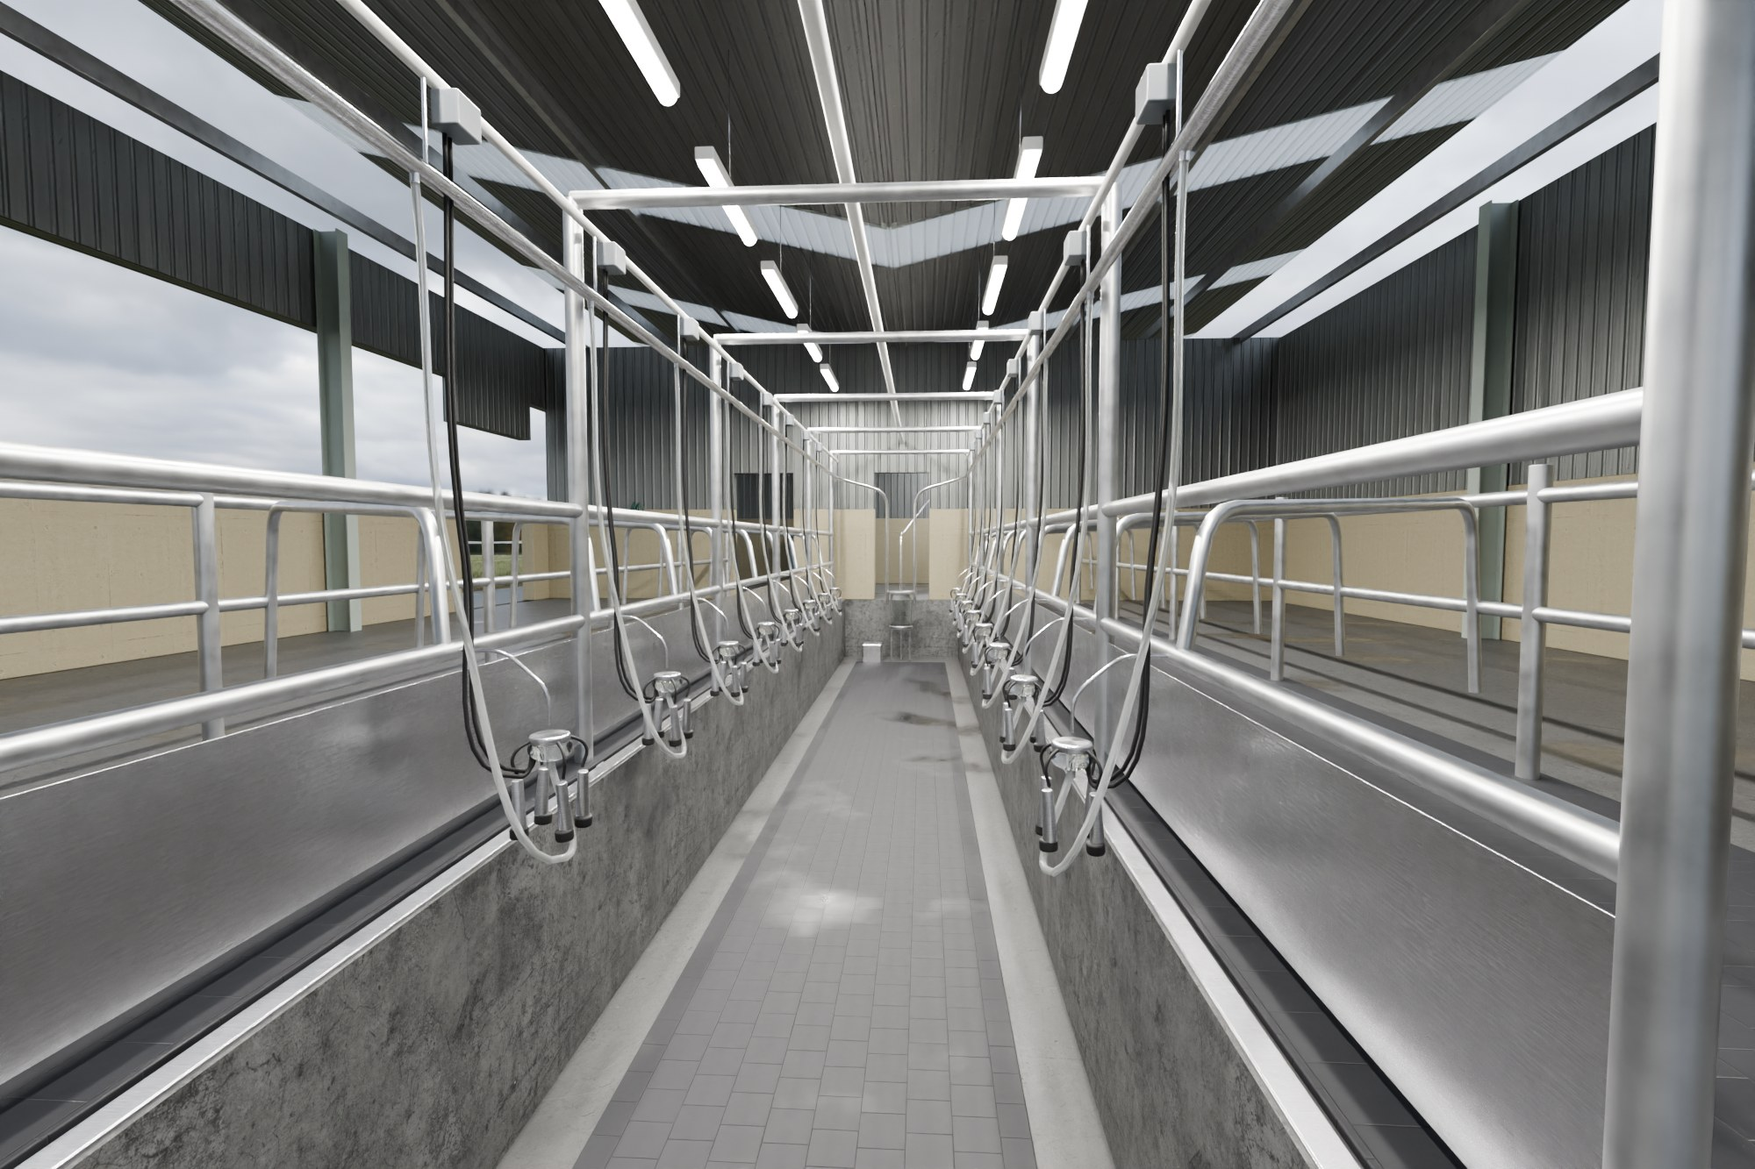
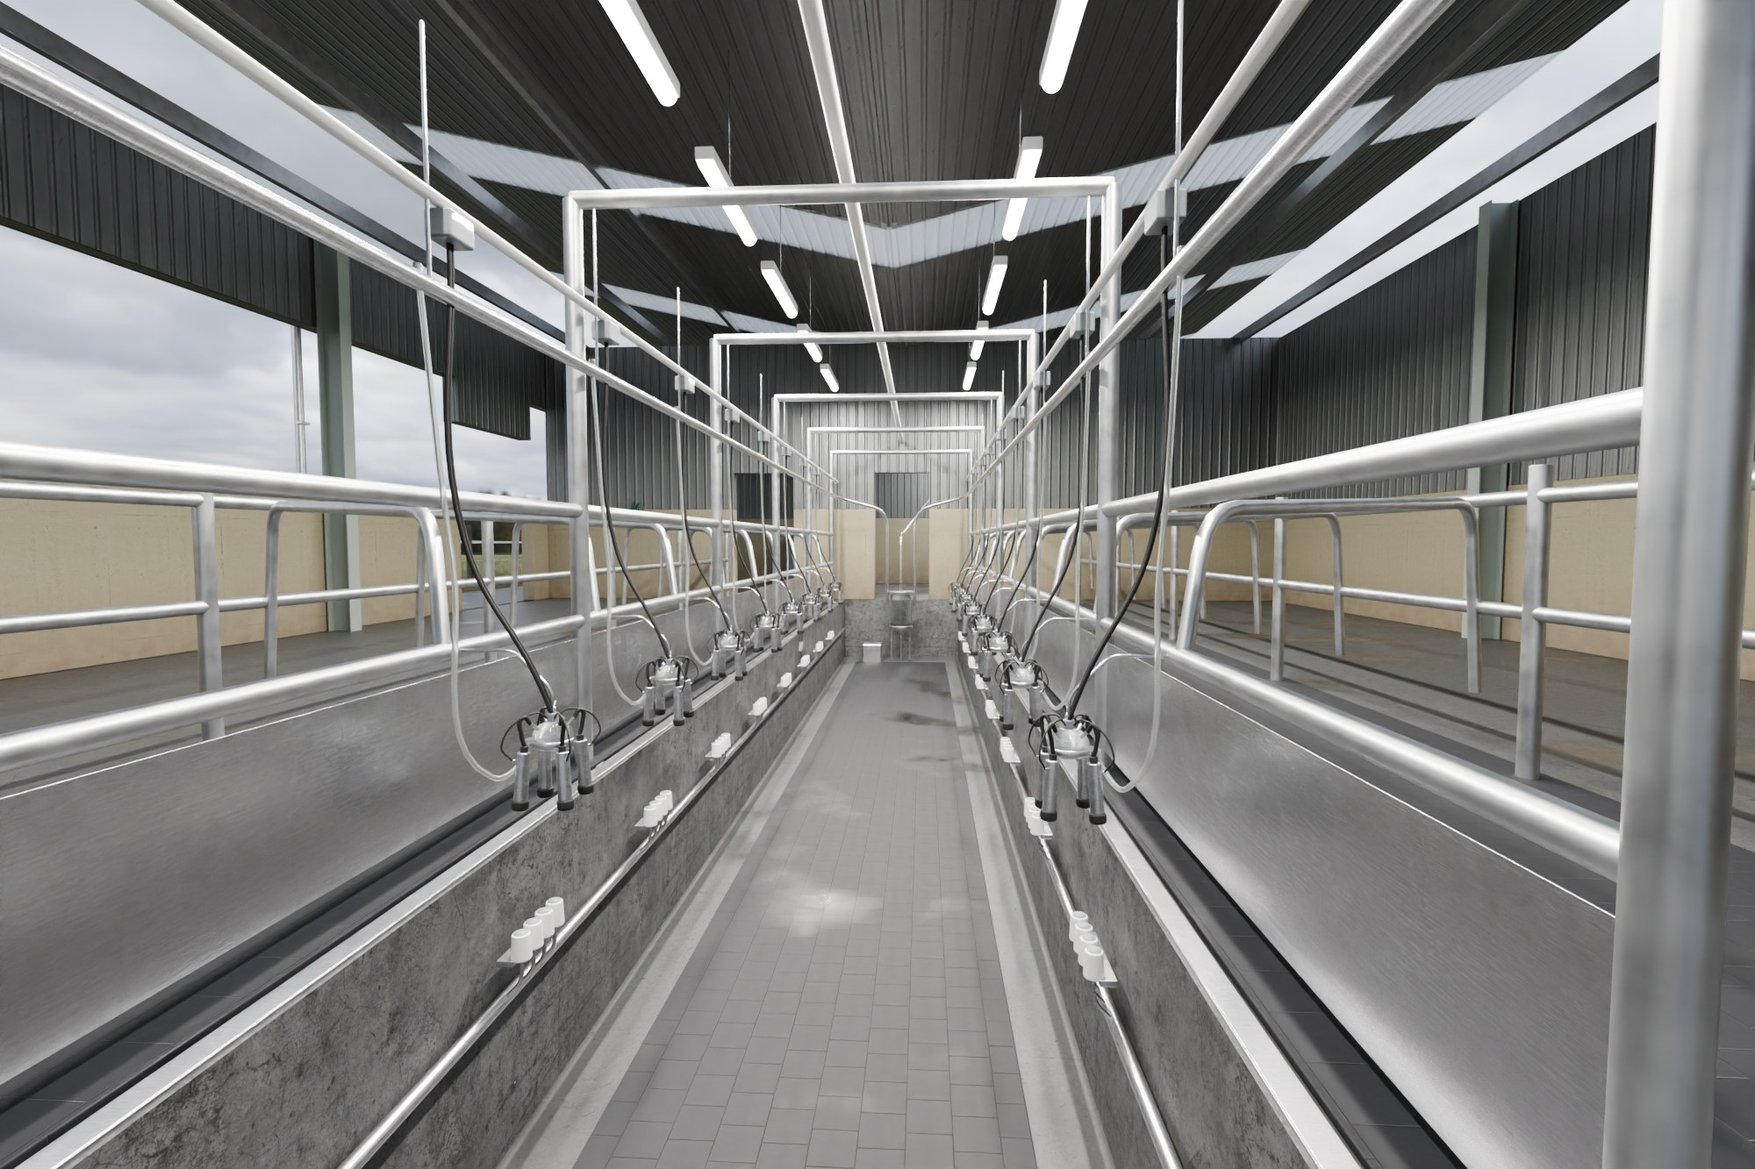
props/dairy: rebuild milking cluster to real structure (hook resting pose), jetters, wall grime + gutters/downpipes, 10 m fence with braced strainers, sanitary trap + vacuum plant, milk line 1.65 m

diff --git a/blender/props/dairy_parlour/build.py b/blender/props/dairy_parlour/build.py
@@ -73,7 +73,7 @@ def coords(nt, scale):
     return mp.outputs[0]
 
 
-def pbr(name, aid, tile, tint=None, rough_mul=1.0, wet=0.0, nstr=1.0, metal=0.0, desat=False):
+def pbr(name, aid, tile, tint=None, rough_mul=1.0, wet=0.0, nstr=1.0, metal=0.0, desat=False, grime=False):
     """box 投影 PBR；wet>0 时用噪声做积水（压暗 + 降粗糙度）。"""
     m, nt, b = new_mat(name)
     c = coords(nt, 1.0 / tile)
@@ -123,6 +123,25 @@ def pbr(name, aid, tile, tint=None, rough_mul=1.0, wet=0.0, nstr=1.0, metal=0.0,
         nt.links.new(ramp.outputs[0], nf.inputs['Factor'])
         nf.inputs[2].default_value = nstr; nf.inputs[3].default_value = 0.1
         nt.links.new(nf.outputs[0], nm.inputs['Strength'])
+    if grime:
+        # 墙根泥溅：世界 z 0–0.6 m 渐变 × 噪声，压暗偏棕、变粗糙
+        gp = nt.nodes.new('ShaderNodeNewGeometry'); sz = nt.nodes.new('ShaderNodeSeparateXYZ')
+        nt.links.new(gp.outputs['Position'], sz.inputs[0])
+        mr = nt.nodes.new('ShaderNodeMapRange'); mr.inputs['From Min'].default_value = 0.05; mr.inputs['From Max'].default_value = 0.65
+        mr.inputs['To Min'].default_value = 1.0; mr.inputs['To Max'].default_value = 0.0
+        nt.links.new(sz.outputs[2], mr.inputs['Value'])
+        gn = nt.nodes.new('ShaderNodeTexNoise'); gn.inputs['Scale'].default_value = 7; gn.inputs['Detail'].default_value = 12
+        nt.links.new(gp.outputs['Position'], gn.inputs['Vector'])
+        gm_ = nt.nodes.new('ShaderNodeMath'); gm_.operation = 'MULTIPLY'
+        nt.links.new(mr.outputs[0], gm_.inputs[0])
+        g2 = nt.nodes.new('ShaderNodeMath'); g2.operation = 'MULTIPLY_ADD'; g2.inputs[1].default_value = 1.6; g2.inputs[2].default_value = -0.2
+        nt.links.new(gn.outputs[0], g2.inputs[0]); nt.links.new(g2.outputs[0], gm_.inputs[1])
+        cl = nt.nodes.new('ShaderNodeMath'); cl.operation = 'MINIMUM'; cl.inputs[1].default_value = 1.0
+        nt.links.new(gm_.outputs[0], cl.inputs[0])
+        gmix = nt.nodes.new('ShaderNodeMix'); gmix.data_type = 'RGBA'
+        nt.links.new(cl.outputs[0], gmix.inputs['Factor']); nt.links.new(col, gmix.inputs[6])
+        gmix.inputs[7].default_value = (0.16, 0.12, 0.08, 1)
+        col = gmix.outputs[2]
     nt.links.new(col, b.inputs['Base Color'])
     nt.links.new(rough, b.inputs['Roughness'])
     b.inputs['Metallic'].default_value = metal
@@ -241,13 +260,13 @@ M = {}
 M['floor'] = pbr('floor_wet', 'concrete_floor_worn_001', 2.5, rough_mul=0.9, wet=0.55, tint=(0.5, 0.5, 0.5), desat=True)
 M['yard'] = pbr('yard', 'concrete_floor_worn_001', 3.0, wet=0.3)
 M['mat'] = pbr('rubber_mat', 'rubber_tiles', 0.6, wet=0.4, rough_mul=0.9)
-M['block'] = pbr('block', 'concrete_wall_008', 2.0, tint=(0.95, 0.95, 0.93))
+M['block'] = pbr('block', 'concrete_wall_008', 2.0, tint=(0.95, 0.95, 0.93), grime=True)
 M['pitwall'] = pbr('pitwall', 'smooth_concrete_floor', 1.5, tint=(0.62, 0.63, 0.62), wet=0.3, desat=True)
 M['clad'] = pbr('cladding', 'box_profile_metal_sheet', 1.5, tint=(0.62, 0.66, 0.64), metal=0.5, desat=True)
 M['wood'] = pbr('post_wood', 'rough_wood', 0.8, tint=(0.8, 0.72, 0.62))
 M['grass_ground'] = pbr('grass_ground', 'grass_ground', 2.0)
 M['steel'] = steel('steel_brushed')
-M['steel_polish'] = steel('steel_polished', base_rough=0.26, tile=0.3)
+M['steel_polish'] = steel('steel_polished', base_rough=0.24, tile=0.1)
 M['tank'] = steel('tank_brushed', base_rough=0.24, tile=1.0)
 M['galv'] = galvanised()
 M['rubber'] = rubber('rubber_black')
@@ -471,37 +490,91 @@ for x in [PX0 - 0.2] + [PX0 + 2.2 * k for k in range(1, 5)] + [PX1 + 0.2]:
     pipe(f'gantry_{x:.1f}', [(x, -(PY1 + 0.14), 2.35), (x, PY1 + 0.14, 2.35)], 0.035, M['galv'])
 
 # ---------------------------------------------------------------- 奶管 / 脉动管 / 杯组
+def cyl_between(name, p0, p1, r, mat, r2=None, bev=0.002, seg=24):
+    p0, p1 = Vector(p0), Vector(p1)
+    o = cyl(name, tuple((p0 + p1) / 2), r, (p1 - p0).length, mat, seg=seg, bev=bev, r2=r2)
+    o.rotation_mode = 'QUATERNION'
+    o.rotation_quaternion = (p1 - p0).to_track_quat('Z', 'Y')
+    return o
+
+
+PULSE_Z = MILK_LINE_Z + 0.25
+GZ = 2.35
+
+
+def cluster(tag, C, face):
+    """现代杯组，静止挂在钩上：爪在上，四个奶杯靠短奶管垂在下面，杯口（衬垫唇口）朝下。
+    C = 爪中心；face = 朝坑外（牛那侧）的单位向量（x, y）。返回 (出奶口, 脉动分配器顶) 位置。"""
+    C = Vector(C)
+    # 爪：不锈钢底座 + 透明聚砜上罩 + 顶上黑色脉动分配器 + 挂环
+    cyl(f'claw_base_{tag}', tuple(C + Vector((0, 0, -0.022))), 0.062, 0.03, M['steel_polish'], seg=48, bev=0.012)
+    sphere(f'claw_bowl_{tag}', tuple(C + Vector((0, 0, 0.0))), 0.06, M['glass'], (1, 1, 0.75))
+    cyl(f'distrib_{tag}', tuple(C + Vector((0, 0, 0.055))), 0.017, 0.03, M['grey_box'], bev=0.005)
+    ring = C + Vector((0, 0, 0.078))
+    cyl(f'claw_ring_{tag}', tuple(ring), 0.012, 0.004, M['steel'], axis='X', bev=0)
+    # 出奶口（侧面，朝钩那边）
+    fx, fy = face
+    out0 = C + Vector((fx * 0.055, fy * 0.055, -0.015))
+    out1 = C + Vector((fx * 0.085, fy * 0.085, -0.02))
+    cyl_between(f'claw_outlet_{tag}', out0, out1, 0.009, M['steel'])
+    for k in range(4):
+        a = math.pi / 4 + k * math.pi / 2
+        d = Vector((math.cos(a), math.sin(a), 0))
+        # 爪上的短进奶嘴：斜向上外
+        n0 = C + d * 0.04 + Vector((0, 0, 0.02))
+        n1 = n0 + (d * 0.7 + Vector((0, 0, 0.7))).normalized() * 0.035
+        cyl_between(f'nipple_{tag}_{k}', n0, n1, 0.0055, M['steel'])
+        # 奶杯倒挂：杯壳长 145 mm、Ø 40 mm；上端是衬垫出口（短奶管），下端是唇口
+        jitter = random.uniform(-0.01, 0.01)
+        top = C + d * (0.085 + jitter) + Vector((0, 0, -0.035 + random.uniform(-0.01, 0.01)))
+        tilt = d * 0.08 + Vector((random.uniform(-0.03, 0.03), random.uniform(-0.03, 0.03), 0))
+        axis = (Vector((0, 0, -1)) + tilt).normalized()
+        bot = top + axis * 0.145
+        cyl_between(f'shell_{tag}_{k}', top, bot, 0.02, M['steel_polish'], bev=0.004, seg=32)
+        # 唇口：软黑橡胶，比壳粗一圈；中间是乳头孔
+        lip1 = bot + axis * 0.028
+        cyl_between(f'mouth_{tag}_{k}', bot - axis * 0.004, lip1, 0.0245, M['rubber'], bev=0.009, seg=32)
+        cyl_between(f'mouthhole_{tag}_{k}', lip1 - axis * 0.002, lip1 + axis * 0.0005, 0.009, M['frame'], bev=0, seg=16)
+        # 衬垫从杯壳上端伸出变成短奶管，拐弯接到爪上的进奶嘴
+        stub = top - axis * 0.018
+        cyl_between(f'linerstub_{tag}_{k}', top + axis * 0.004, stub, 0.011, M['rubber'], bev=0.003)
+        tube(f'shortmilk_{tag}_{k}', [tuple(stub), tuple(stub - axis * 0.03 + d * 0.01), tuple(n1 + (n1 - n0).normalized() * 0.03), tuple(n1)], 0.0065, M['rubber'], res=16)
+        # 杯壳侧面脉动嘴 + 细短脉动管到分配器
+        side = top + axis * 0.02 + d * 0.021
+        cyl_between(f'pnip_{tag}_{k}', side, side + d * 0.012, 0.003, M['steel'], bev=0)
+        dist = C + Vector((0, 0, 0.055)) + d * 0.017
+        tube(f'shortpulse_{tag}_{k}', [tuple(side + d * 0.012), tuple(side + d * 0.04 + Vector((0, 0, 0.05))), tuple(dist + d * 0.03 + Vector((0, 0, 0.02))), tuple(dist)], 0.0028, M['rubber'], res=16)
+    return out1, C + Vector((0, 0, 0.07))
+
+
 for s in (1, -1):
     ym = s * (PY1 + 0.05)
     pipe(f'milkline_{s}', [(PX0 - 0.3, ym, MILK_LINE_Z), (PX1 + 0.1, ym, MILK_LINE_Z), (RECEIVER[0], s * 0.22, MILK_LINE_Z - 0.2), (RECEIVER[0], s * 0.22, -0.05)], 0.025, M['steel'], rad=0.25)
-    pipe(f'pulseline_{s}', [(PX0 - 0.3, ym, 2.22), (PX1 + 0.3, ym, 2.22)], 0.019, M['white_pvc'])
+    pipe(f'pulseline_{s}', [(PX0 - 0.3, ym, PULSE_Z), (PX1 + 0.3, ym, PULSE_Z)], 0.019, M['white_pvc'])
     for x in [PX0 + 1.1 * k for k in range(11)]:
-        cyl(f'clamp_{s}_{x:.1f}', (x, ym, 2.08), 0.006, 0.28, M['steel'])
+        cyl(f'clamp_{s}_{x:.1f}', (x, ym, (MILK_LINE_Z + GZ) / 2), 0.006, GZ - MILK_LINE_Z, M['steel'])
+    # 坑壁清洗托（jetter）供水管
+    yw = s * (PY1 - 0.05)
+    pipe(f'washline_{s}', [(PX0 - 0.2, yw, -0.42), (PX1 + 0.3, yw, -0.42)], 0.02, M['steel'])
     for i, x in enumerate(SX):
-        cx, cy, cz = x + 0.3, s * (PY1 - 0.16), 0.32     # 爪（挂在坑沿上）
-        # 挂钩
-        pipe(f'hook_{s}_{i}', [(cx, s * (PY1 + 0.14), 0.62), (cx, s * (PY1 - 0.02), 0.62), (cx, cy, 0.5), (cx, cy, cz + 0.07)], 0.006, M['steel'], rad=0.05)
-        # 集乳爪：下半不锈钢、上半透明
-        sphere(f'claw_{s}_{i}', (cx, cy, cz), 0.065, M['glass'], (1, 1, 0.62))
-        cyl(f'claw_top_{s}_{i}', (cx, cy, cz + 0.03), 0.06, 0.03, M['steel'], bev=0.01)
-        cyl(f'claw_out_{s}_{i}', (cx, cy, cz - 0.045), 0.012, 0.04, M['steel'])
-        # 四个奶杯：杯口朝下自然下垂
-        for k in range(4):
-            a = math.pi / 4 + k * math.pi / 2 + random.uniform(-0.15, 0.15)
-            ox, oy = math.cos(a) * 0.075, math.sin(a) * 0.075
-            tilt = (math.sin(a) * 0.18, -math.cos(a) * 0.18, 0)
-            px, py, top = cx + ox * 1.25, cy + oy * 1.25, cz - 0.07
-            cyl(f'shell_{s}_{i}_{k}', (px, py, top - 0.09), 0.021, 0.15, M['steel_polish'], rot=(-tilt[1] * 0.5, tilt[0] * 0.5, 0), bev=0.004, r2=0.016)
-            cyl(f'liner_{s}_{i}_{k}', (px, py, top - 0.175), 0.027, 0.035, M['rubber'], rot=(-tilt[1] * 0.5, tilt[0] * 0.5, 0), bev=0.008)
-            tube(f'shortmilk_{s}_{i}_{k}', [(px, py, top - 0.005), (px + ox * 0.15, py + oy * 0.15, cz - 0.01), (cx + ox * 0.45, cy + oy * 0.45, cz + 0.04)], 0.005, M['rubber'], res=16)
-        # 长奶管（透明）+ 双脉动管（黑）上到管线
-        tube(f'longmilk_{s}_{i}', [(cx, cy, cz - 0.04), (cx - 0.1, s * (PY1 - 0.25), 0.02), (cx - 0.15, s * (PY1 + 0.02), 0.75), (x + 0.05, s * (PY1 + 0.05), MILK_LINE_Z - 0.03)], 0.011, M['hose'])
-        for dz, off in ((0, -0.012), (0.01, 0.012)):
-            tube(f'pulse_{s}_{i}_{off}', [(cx + off, cy + s * 0.04, cz + 0.04), (cx - 0.06 + off, s * (PY1 - 0.1), 0.25 + dz), (cx - 0.1 + off, s * (PY1 + 0.03), 0.9), (x + 0.2 + off, s * (PY1 + 0.05), 2.18)], 0.0065, M['rubber'])
-        # 脉动器（黑盒）
-        box(f'pulsator_{s}_{i}', x + 0.14, x + 0.26, s * (PY1 + 0.02) - 0.04, s * (PY1 + 0.02) + 0.04, 2.1, 2.2, M['grey_box'], 0.008)
-        # 进奶口
-        cyl(f'inlet_{s}_{i}', (x + 0.05, ym, MILK_LINE_Z - 0.02), 0.012, 0.06, M['steel'])
+        cx, cy, cz = x + 0.3, s * (PY1 - 0.17), 0.36
+        # 杯组挂钩：从臀栏伸进坑、向下弯出钩，钩住爪顶挂环
+        pipe(f'hook_{s}_{i}', [(cx, s * (PY1 + 0.14), 0.62), (cx, s * (PY1 - 0.05), 0.62), (cx, cy, 0.5), (cx, cy, cz + 0.078), (cx + 0.02, cy, cz + 0.1)], 0.005, M['steel'], rad=0.03)
+        outlet, ptop = cluster(f'{s}_{i}', (cx, cy, cz), (0, s))
+        # 长奶管 Ø16（透明）：侧出口 → 下垂 → 上到奶管上半部的进奶口
+        tube(f'longmilk_{s}_{i}', [tuple(outlet), tuple(outlet + Vector((0.02, s * 0.02, -0.06))), (cx - 0.08, s * (PY1 - 0.02), 0.25), (cx - 0.15, s * (PY1 + 0.04), 0.9), (x + 0.05, ym, MILK_LINE_Z + 0.03)], 0.008, M['hose'])
+        cyl(f'inlet_{s}_{i}', (x + 0.05, ym, MILK_LINE_Z + 0.02), 0.012, 0.05, M['steel'])
+        # 双脉动长管（黑，两根并在一起）：分配器 → 脉动器
+        for off in (-0.0065, 0.0065):
+            tube(f'pulse_{s}_{i}_{off}', [tuple(ptop + Vector((off, 0, 0))), tuple(ptop + Vector((off - 0.02, s * 0.04, 0.12))), (cx - 0.1 + off, s * (PY1 + 0.03), 0.95), (x + 0.2 + off, s * (PY1 + 0.05), PULSE_Z - 0.08)], 0.0062, M['rubber'])
+        box(f'pulsator_{s}_{i}', x + 0.14, x + 0.26, s * (PY1 + 0.05) - 0.04, s * (PY1 + 0.05) + 0.04, PULSE_Z - 0.1, PULSE_Z - 0.02, M['grey_box'], 0.008)
+        # 清洗托：坑壁上一组四个开口朝上的白色清洗杯
+        box(f'jet_bracket_{s}_{i}', cx - 0.14, cx + 0.14, min(yw, yw - s * 0.05), max(yw, yw - s * 0.05), -0.3, -0.28, M['steel'], 0.003)
+        for k, dx in enumerate((-0.105, -0.035, 0.035, 0.105)):
+            jy = yw - s * 0.06
+            cyl(f'jetter_{s}_{i}_{k}', (cx + dx, jy, -0.25), 0.03, 0.08, M['white_pvc'], bev=0.006, seg=32, r2=0.026)
+            cyl(f'jetter_hole_{s}_{i}_{k}', (cx + dx, jy, -0.2095), 0.021, 0.002, M['frame'], bev=0, seg=24)
+            pipe(f'jet_feed_{s}_{i}_{k}', [(cx + dx, jy, -0.29), (cx + dx, jy, -0.36), (cx + dx, yw, -0.42)], 0.006, M['steel'], rad=0.03)
 
 # 集乳罐 + 奶泵
 rx, ry = RECEIVER
@@ -539,6 +612,30 @@ box('condenser', X1 - 0.75, X1 - 0.12, -5.2, -3.9, 0, 0.8, M['frame'], 0.02)
 cyl('condenser_fan', (X1 - 0.75, -4.55, 0.42), 0.26, 0.02, M['galv'], axis='X')
 for k in range(5):
     cyl(f'grille_{k}', (X1 - 0.765, -4.55, 0.42), 0.05 + k * 0.05, 0.004, M['steel'], axis='X', seg=48, bev=0)
+# 卫生阱（奶和真空之间的不锈钢小罐）+ 真空稳压罐 + 真空泵机组
+stx, sty = MILK_ROOM_X + 0.7, 3.2
+cyl('san_trap', (stx, sty, 1.2), 0.13, 0.36, M['steel_polish'], seg=48, bev=0.02)
+cyl('san_trap_lid', (stx, sty, 1.395), 0.14, 0.03, M['steel'], seg=48, bev=0.008)
+cyl('san_trap_valve', (stx, sty, 0.95), 0.03, 0.14, M['steel'])
+for k in range(3):
+    a = k * 2 * math.pi / 3
+    cyl(f'san_leg_{k}', (stx + math.cos(a) * 0.12, sty + math.sin(a) * 0.12, 0.5), 0.012, 1.0, M['steel'])
+pipe('san_to_vac', [(stx, sty, 1.41), (stx, sty, 2.6), (MILK_ROOM_X + 1.5, sty, 2.6)], 0.03, M['white_pvc'])
+vrx, vry = MILK_ROOM_X + 1.5, 4.6
+cyl('vac_receiver', (vrx, vry, 0.85), 0.2, 0.8, M['steel'], seg=48, bev=0.03)
+sphere('vac_receiver_top', (vrx, vry, 1.25), 0.2, M['steel'], (1, 1, 0.35))
+cyl('vac_gauge', (vrx, vry - 0.2, 1.05), 0.045, 0.02, M['white_pvc'], axis='Y', bev=0.004)
+for k in range(3):
+    a = k * 2 * math.pi / 3 + 0.5
+    cyl(f'vac_leg_{k}', (vrx + math.cos(a) * 0.17, vry + math.sin(a) * 0.17, 0.225), 0.015, 0.45, M['steel'])
+pipe('vac_drop', [(MILK_ROOM_X + 1.5, 3.8, 1.0), (vrx, 3.8, 1.35), (vrx, vry, 1.35)], 0.035, M['white_pvc'])
+box('vac_pump_base', X1 - 1.9, X1 - 0.6, 4.2, 5.1, 0, 0.12, M['frame'], 0.01)
+cyl('vac_motor', (X1 - 1.0, 4.65, 0.4), 0.17, 0.5, M['frame'], axis='X', seg=48, bev=0.02)
+for k in range(10):
+    cyl(f'vac_fin_{k}', (X1 - 1.2 + k * 0.045, 4.65, 0.4), 0.18, 0.008, M['frame'], axis='X', seg=48, bev=0)
+cyl('vac_pump', (X1 - 1.55, 4.65, 0.4), 0.2, 0.3, M['steel'], axis='X', seg=48, bev=0.02)
+box('vac_motor_foot', X1 - 1.3, X1 - 0.8, 4.5, 4.8, 0.12, 0.25, M['frame'], 0.01)
+pipe('vac_pump_line', [(X1 - 1.55, 4.65, 0.6), (X1 - 1.55, 4.65, 0.9), (vrx + 0.2, vry, 0.9)], 0.03, M['white_pvc'])
 # 奶罐间配件：配电柜、冲洗水管、筐
 import_gltf('utility_box_01', (X1 - 0.3, 2.5, 0.0), rot=(math.pi / 2, 0, math.pi / 2))
 import_gltf('garden_hose_wall_mounted_01', (MILK_ROOM_X + 0.05, 4.5, 1.4), rot=(math.pi / 2, 0, 0))
@@ -577,7 +674,15 @@ wall('wall_n', X0, X1, Y1, Y1 + WT, [(3.4, 5.4, 2.6)])
 wall('wall_w', X0 - WT, X0, Y0, Y1, [(-PY1 - PLATFORM_W, -PY1 - 0.1, 2.4), (-0.7, 0.7, 2.2), (PY1 + 0.1, PY1 + PLATFORM_W, 2.4)])
 wall('wall_e', X1, X1 + WT, Y0, Y1, [])
 wall('partition', MILK_ROOM_X - 0.1, MILK_ROOM_X + 0.1, Y0, Y1, [(-0.45, 0.45, 2.1), (1.8, 2.8, 2.1)])
-# 北墙开口加防鸟网（镀锌方格）
+# 檐沟 + 落水管
+for s_ in (1, -1):
+    gy = s_ * (Y1 + 0.5)
+    cyl(f'gutter_{s_}', ((X0 + X1) / 2, gy, EAVE - 0.08), 0.07, X1 - X0 + 0.8, M['galv'], axis='X', seg=24, bev=0.004)
+    for gx in (X0 + 0.4, (X0 + X1) / 2, X1 - 0.4):
+        wy = s_ * (Y1 + WT + 0.07)
+        pipe(f'downpipe_{s_}_{gx:.1f}', [(gx, gy, EAVE - 0.12), (gx, gy, EAVE - 0.35), (gx, wy, EAVE - 0.6), (gx, wy, 0.2), (gx, s_ * (Y1 + WT + 0.25), 0.03)], 0.045, M['galv'], rad=0.12)
+        for bz in (1.0, 2.2, 3.4):
+            box(f'dp_clip_{s_}_{gx:.1f}_{bz}', gx - 0.06, gx + 0.06, min(wy, s_ * (Y1 + WT)), max(wy, s_ * (Y1 + WT)), bz, bz + 0.03, M['galv'], 0.002)
 # 钢门架（I 型钢简化：翼缘 + 腹板）
 for x in range(int(X0), int(X1) + 1, 5):
     for s in (1, -1):
@@ -736,7 +841,7 @@ qx0, qx1, qy0, qy1 = PADDOCK
 def fence_line(a, b, skip=()):
     ax, ay = a; bx, by = b
     L = math.hypot(bx - ax, by - ay)
-    n = max(1, round(L / POST_STEP))
+    n = max(1, math.ceil(L / POST_STEP - 0.05))
     return [(ax + (bx - ax) * k / n, ay + (by - ay) * k / n) for k in range(n + 1)]
 
 
@@ -771,7 +876,23 @@ for si, (a, b) in enumerate(sides):
 for (x, y) in postset.values():
     corner = (x in (qx0, qx1)) and (y in (qy0, qy1))
     gate = abs(abs(x) - GATE[1]) < 0.01 and abs(y - qy0) < 0.01
-    r = (0.075 if corner or gate else 0.05) * random.uniform(0.85, 1.2)
+    r = (0.1 if corner or gate else 0.06) * random.uniform(0.9, 1.15)
+    if corner or gate:
+        # 撑桩：沿每条相邻边斜撑一根木撑（上端 1.0 m 顶桩，下端 2.2 m 外入地）
+        for (dx, dy) in ((1, 0), (-1, 0), (0, 1), (0, -1)):
+            tx_, ty_ = x + dx * 2.2, y + dy * 2.2
+            if not (qx0 - 0.01 <= tx_ <= qx1 + 0.01 and qy0 - 0.01 <= ty_ <= qy1 + 0.01):
+                continue
+            if abs(ty_ - y) > 0 and not (abs(x - qx0) < 0.01 or abs(x - qx1) < 0.01):
+                continue
+            if abs(tx_ - x) > 0 and not (abs(y - qy0) < 0.01 or abs(y - qy1) < 0.01):
+                continue
+            if gate and abs(ty_ - y) > 0:
+                continue
+            if gate and (GATE[0] < tx_ < GATE[1]):
+                continue
+            pipe(f'brace_{x:.1f}_{y:.1f}_{dx}_{dy}', [(x + dx * r, y + dy * r, 1.0), (tx_, ty_, -0.05)], 0.045, M['wood'])
+            cyl(f'brace_block_{x:.1f}_{y:.1f}_{dx}_{dy}', (tx_, ty_, -0.02), 0.09, 0.06, M['wood'], bev=0.01)
     p = cyl(f'post_{x:.1f}_{y:.1f}', (x, y, POST_H / 2 - 0.15), r, POST_H + 0.3, M['wood'], seg=16, bev=0.008)
     p.rotation_euler = (random.uniform(-0.03, 0.03), random.uniform(-0.03, 0.03), random.uniform(0, 6.28))
     cxm, cym = (qx0 + qx1) / 2, (qy0 + qy1) / 2
@@ -832,7 +953,7 @@ for k in range(2):
 # ---------------------------------------------------------------- 相机
 CAMS = {
     'c1': ((PX0 - 1.0, -0.35, 0.95), (PX1, 0.35, 0.3), 16),
-    'c2': ((SX[3] + 0.9, -(PY1 - 0.55), 0.5), (SX[3] + 0.3, -(PY1 - 0.16), 0.2), 55),
+    'c2': ((SX[3] + 0.6, -(PY1 - 0.85), 0.5), (SX[3] + 0.3, -(PY1 - 0.17), 0.26), 40),
     'c3': ((-12.5, 15.5, 1.55), (-2.0, 6.5, 1.3), 24),
     'c4': ((X1 - 0.5, 5.3, 1.7), (TANK[0], TANK[1] - 0.5, 1.0), 20),
 }
@@ -842,7 +963,7 @@ cam = link(bpy.data.objects.new('cam', cd)); cam.location = pos
 dvec = Vector(tgt) - Vector(pos)
 cam.rotation_euler = dvec.to_track_quat('-Z', 'Y').to_euler()
 if ARGS['cam'] == 'c2':
-    cd.dof.use_dof = True; cd.dof.focus_distance = dvec.length; cd.dof.aperture_fstop = 4.0
+    cd.dof.use_dof = True; cd.dof.focus_distance = dvec.length; cd.dof.aperture_fstop = 5.6
 sc.camera = cam
 if ARGS['cam'] in ('c1', 'c2', 'c4'):
     sc.view_settings.exposure = 0.3

diff --git a/blender/props/dairy_parlour/layout.py b/blender/props/dairy_parlour/layout.py
@@ -19,7 +19,7 @@ STALL_PITCH = 1.1
 STALL_ANGLE = 35.0                   # 度
 STALL_X0 = -5.0                      # 第一个牛位中心 x
 
-MILK_LINE_Z = 1.95                   # 高位奶管，以牛站台面为 0（坑底以上 2.9 m，高位系统）
+MILK_LINE_Z = 1.65                   # 高位奶管，牛站台面以上（高位 1.5–1.8 m、中位 1.2–1.5 m、低位台面下 0.3 m；ScienceDirect Topics《Milking System》）
 RECEIVER = (5.4, 0.0)                # 集乳罐 x, y（坑尾）
 
 MILK_ROOM_X = 6.0                    # 隔墙 x，右侧是奶罐间
@@ -28,7 +28,7 @@ ENTRY = (-9.0, -7.0)                 # 西端入口门洞（牛进）
 EXIT_Y = 6.0                         # 北侧出口通道通向围场
 
 PADDOCK = (-16.0, 16.0, 9.0, 34.0)   # 围场
-POST_STEP = 5.0
+POST_STEP = 10.0                     # 永久围场 8–12 m 一根，转角 / 闸门用粗撑桩 + 斜撑
 POST_H = 1.3
 INSULATOR_Z = (0.55, 0.95)
 GATE = (-1.2, 1.2)                   # 围场南边闸门（x 区间）

diff --git a/docs/reviews/props_dairy/r1.md b/docs/reviews/props_dairy/r1.md
@@ -16,3 +16,9 @@
 - P2 集乳罐、奶过滤器、卫生阱、真空泵 → 集乳罐和奶泵已有，其余遗留。
 
 第 2 轮：直接出定稿（规定最多 2 轮），没有再开审阅。
+
+## r2 修改（用户反馈：杯组结构是反的）
+- 杯组按真实结构重建（`cluster()`），用静止挂钩姿态：爪在上，下半不锈钢底座、上半透明罩，顶上是脉动分配器和挂环，四个进奶嘴斜向上。奶杯倒挂，唇口在下端；衬垫从上端伸出变成短奶管，接到进奶嘴；杯壳侧面有短脉动管接到分配器；长奶管从爪侧面出口接出。
+- 坑壁清洗托（每位 4 个）加供水管；外墙根加泥溅，加檐沟和落水管；围栏改为 10 m 桩距，转角和闸门加撑桩与斜撑；奶罐间加卫生阱、真空稳压罐和真空泵机组。
+- 奶管高度改为站台面以上 1.65 m（高位系统通常 1.5–1.8 m，来源：ScienceDirect Topics《Milking System》）。
+- r2 审阅（美术总监 + 挤奶设备技师）已经发出，交回时结果还没出来。
